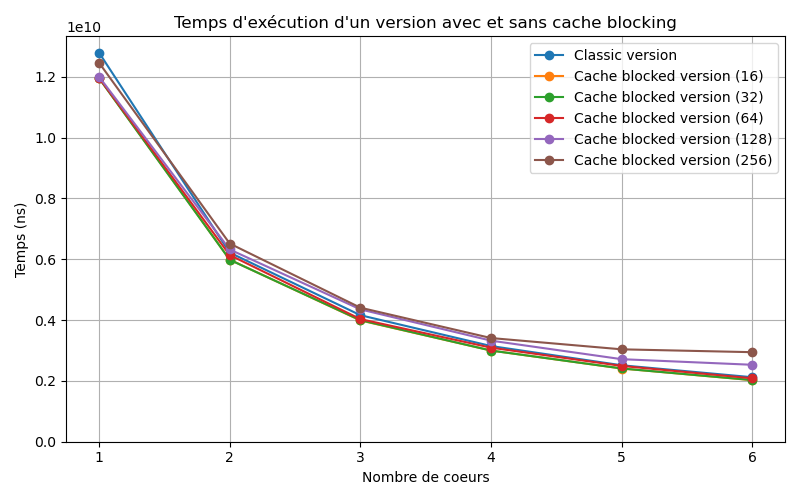
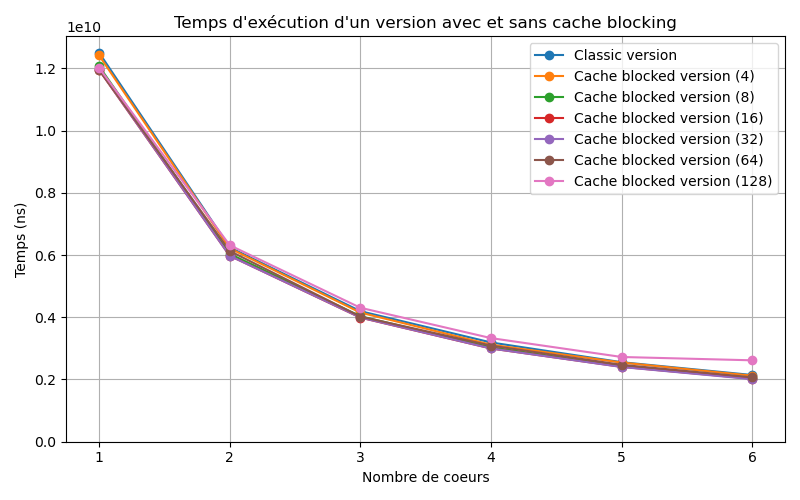
Test avec de plus petits blocs

diff --git a/src/main.cpp b/src/main.cpp
@@ -126,7 +126,7 @@ auto main(int argc, char* argv[]) -> int {
     Kokkos::fence();
     start = std::chrono::high_resolution_clock::now();
 
-    matrix_product_cache_blocking(alpha, A, B, beta, C_blocked, 16);
+    matrix_product_cache_blocking(alpha, A, B, beta, C_blocked, 4);
 
     double duration2 = std::chrono::duration_cast<std::chrono::nanoseconds>
       (std::chrono::high_resolution_clock::now() - start).count();
@@ -145,14 +145,13 @@ auto main(int argc, char* argv[]) -> int {
       }
     }
 
-
     // Testing on different sizes
 
     Kokkos::deep_copy(C_blocked, C);
     Kokkos::fence();
     start = std::chrono::high_resolution_clock::now();
 
-    matrix_product_cache_blocking(alpha, A, B, beta, C_blocked, 32);
+    matrix_product_cache_blocking(alpha, A, B, beta, C_blocked, 8);
 
     double duration3 = std::chrono::duration_cast<std::chrono::nanoseconds>
       (std::chrono::high_resolution_clock::now() - start).count();
@@ -163,7 +162,7 @@ auto main(int argc, char* argv[]) -> int {
     Kokkos::fence();
     start = std::chrono::high_resolution_clock::now();
 
-    matrix_product_cache_blocking(alpha, A, B, beta, C_blocked, 64);
+    matrix_product_cache_blocking(alpha, A, B, beta, C_blocked, 16);
 
     double duration4 = std::chrono::duration_cast<std::chrono::nanoseconds>
       (std::chrono::high_resolution_clock::now() - start).count();
@@ -174,7 +173,7 @@ auto main(int argc, char* argv[]) -> int {
     Kokkos::fence();
     start = std::chrono::high_resolution_clock::now();
 
-    matrix_product_cache_blocking(alpha, A, B, beta, C_blocked, 128);
+    matrix_product_cache_blocking(alpha, A, B, beta, C_blocked, 32);
 
     double duration5 = std::chrono::duration_cast<std::chrono::nanoseconds>
       (std::chrono::high_resolution_clock::now() - start).count();
@@ -185,14 +184,25 @@ auto main(int argc, char* argv[]) -> int {
     Kokkos::fence();
     start = std::chrono::high_resolution_clock::now();
 
-    matrix_product_cache_blocking(alpha, A, B, beta, C_blocked, 256);
+    matrix_product_cache_blocking(alpha, A, B, beta, C_blocked, 64);
 
     double duration6 = std::chrono::duration_cast<std::chrono::nanoseconds>
       (std::chrono::high_resolution_clock::now() - start).count();
 
     Kokkos::fence();
 
-    fmt::println("{}, {}, {}, {}, {}, {}, {}, {}", Kokkos::num_threads(), duration1, duration2, duration3, duration4, duration5, duration6, diff);
+    Kokkos::deep_copy(C_blocked, C);
+    Kokkos::fence();
+    start = std::chrono::high_resolution_clock::now();
+
+    matrix_product_cache_blocking(alpha, A, B, beta, C_blocked, 128);
+
+    double duration7 = std::chrono::duration_cast<std::chrono::nanoseconds>
+      (std::chrono::high_resolution_clock::now() - start).count();
+
+    Kokkos::fence();
+
+    fmt::println("{}, {}, {}, {}, {}, {}, {}, {}, {}", Kokkos::num_threads(), duration1, duration2, duration3, duration4, duration5, duration6, duration7, diff);
   }
   Kokkos::finalize();
   return 0;

diff --git a/main_comparaison.py b/main_comparaison.py
@@ -3,7 +3,7 @@ import numpy as np
 import sys
 
 nbCPU = 6
-duree = list(range(nbCPU * 6))
+duree = list(range(nbCPU * 7))
 x = range(1, nbCPU + 1)
 
 f = open("out.txt", "r")
@@ -16,14 +16,16 @@ for ligne in f:
     duree[cpt + nbCPU * 3] = int(parties[4])
     duree[cpt + nbCPU * 4] = int(parties[5])
     duree[cpt + nbCPU * 5] = int(parties[6])
+    duree[cpt + nbCPU * 6] = int(parties[7])
 
 plt.figure(figsize=(8, 5))
 plt.plot(x, duree[:6], marker='o', linestyle='-', label='Classic version')
-plt.plot(x, duree[6:12], marker='o', linestyle='-', label='Cache blocked version (16)')
-plt.plot(x, duree[12:18], marker='o', linestyle='-', label='Cache blocked version (32)')
-plt.plot(x, duree[18:24], marker='o', linestyle='-', label='Cache blocked version (64)')
-plt.plot(x, duree[24:30], marker='o', linestyle='-', label='Cache blocked version (128)')
-plt.plot(x, duree[30:], marker='o', linestyle='-', label='Cache blocked version (256)')
+plt.plot(x, duree[6:12], marker='o', linestyle='-', label='Cache blocked version (4)')
+plt.plot(x, duree[12:18], marker='o', linestyle='-', label='Cache blocked version (8)')
+plt.plot(x, duree[18:24], marker='o', linestyle='-', label='Cache blocked version (16)')
+plt.plot(x, duree[24:30], marker='o', linestyle='-', label='Cache blocked version (32)')
+plt.plot(x, duree[30:36], marker='o', linestyle='-', label='Cache blocked version (64)')
+plt.plot(x, duree[36:], marker='o', linestyle='-', label='Cache blocked version (128)')
 plt.xlabel("Nombre de coeurs")
 plt.ylabel("Temps (ns)")
 plt.title("Temps d'exécution d'un version avec et sans cache blocking")
@@ -40,11 +42,12 @@ for d in duree:
 
 plt.figure(figsize=(8, 5))
 plt.plot(x, flops[:6], marker='o', linestyle='-', label='Classic version')
-plt.plot(x, flops[6:12], marker='o', linestyle='-', label='Cache blocked version (16)')
-plt.plot(x, flops[12:18], marker='o', linestyle='-', label='Cache blocked version (32)')
-plt.plot(x, flops[18:24], marker='o', linestyle='-', label='Cache blocked version (64)')
-plt.plot(x, flops[24:30], marker='o', linestyle='-', label='Cache blocked version (128)')
-plt.plot(x, flops[30:], marker='o', linestyle='-', label='Cache blocked version (256)')
+plt.plot(x, flops[6:12], marker='o', linestyle='-', label='Cache blocked version (4)')
+plt.plot(x, flops[12:18], marker='o', linestyle='-', label='Cache blocked version (8)')
+plt.plot(x, flops[18:24], marker='o', linestyle='-', label='Cache blocked version (16)')
+plt.plot(x, flops[24:30], marker='o', linestyle='-', label='Cache blocked version (32)')
+plt.plot(x, flops[30:36], marker='o', linestyle='-', label='Cache blocked version (64)')
+plt.plot(x, flops[36:], marker='o', linestyle='-', label='Cache blocked version (128)')
 plt.xlabel("Nombre de coeurs")
 plt.ylabel("GFlops / s")
 plt.title("GFlops / s d'une version en cache blocking et une sans")
